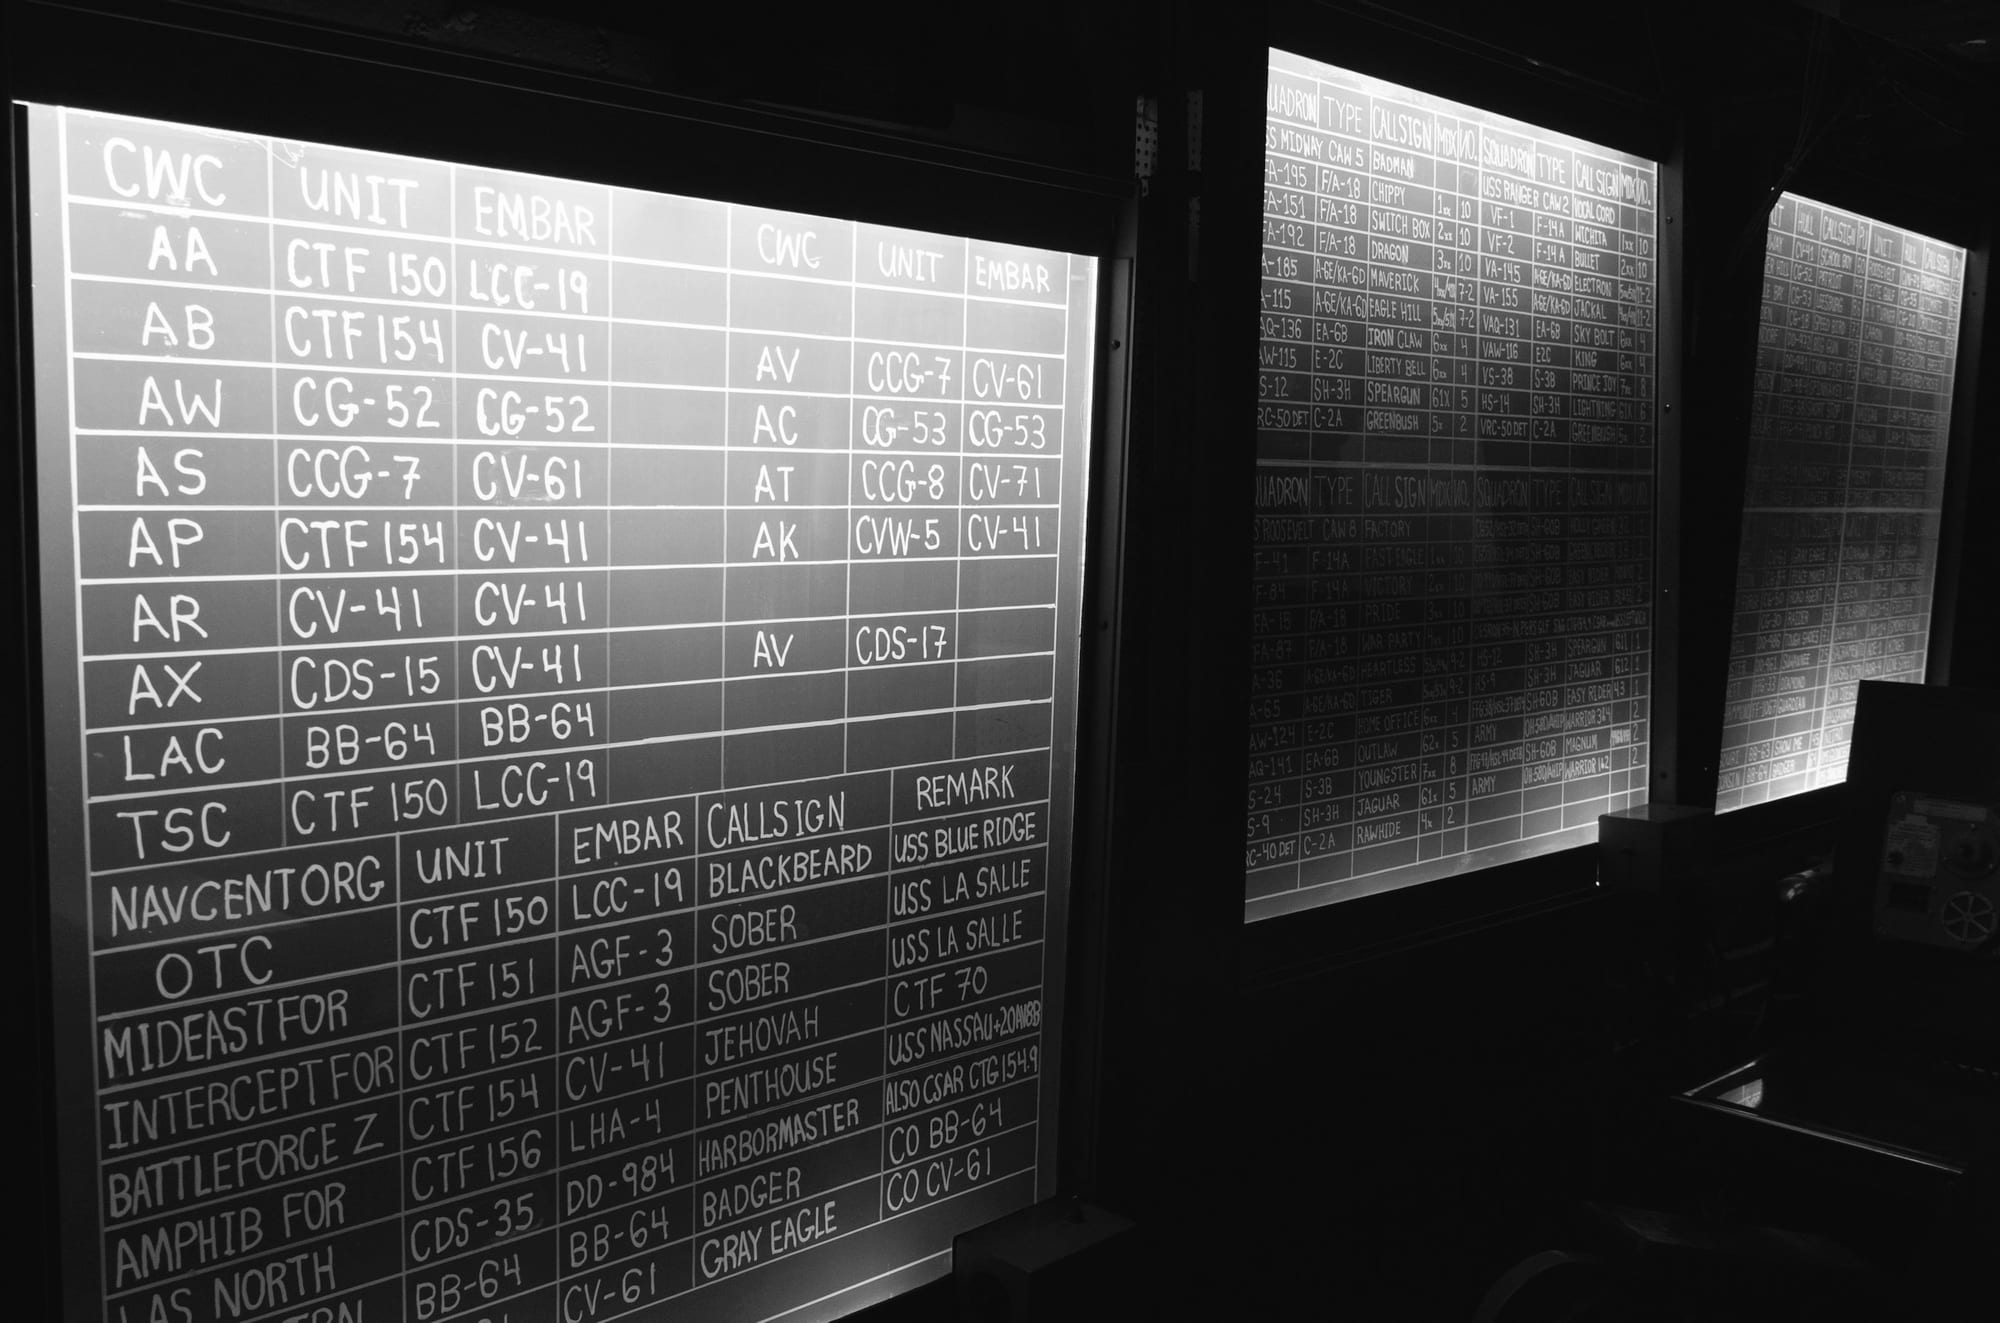
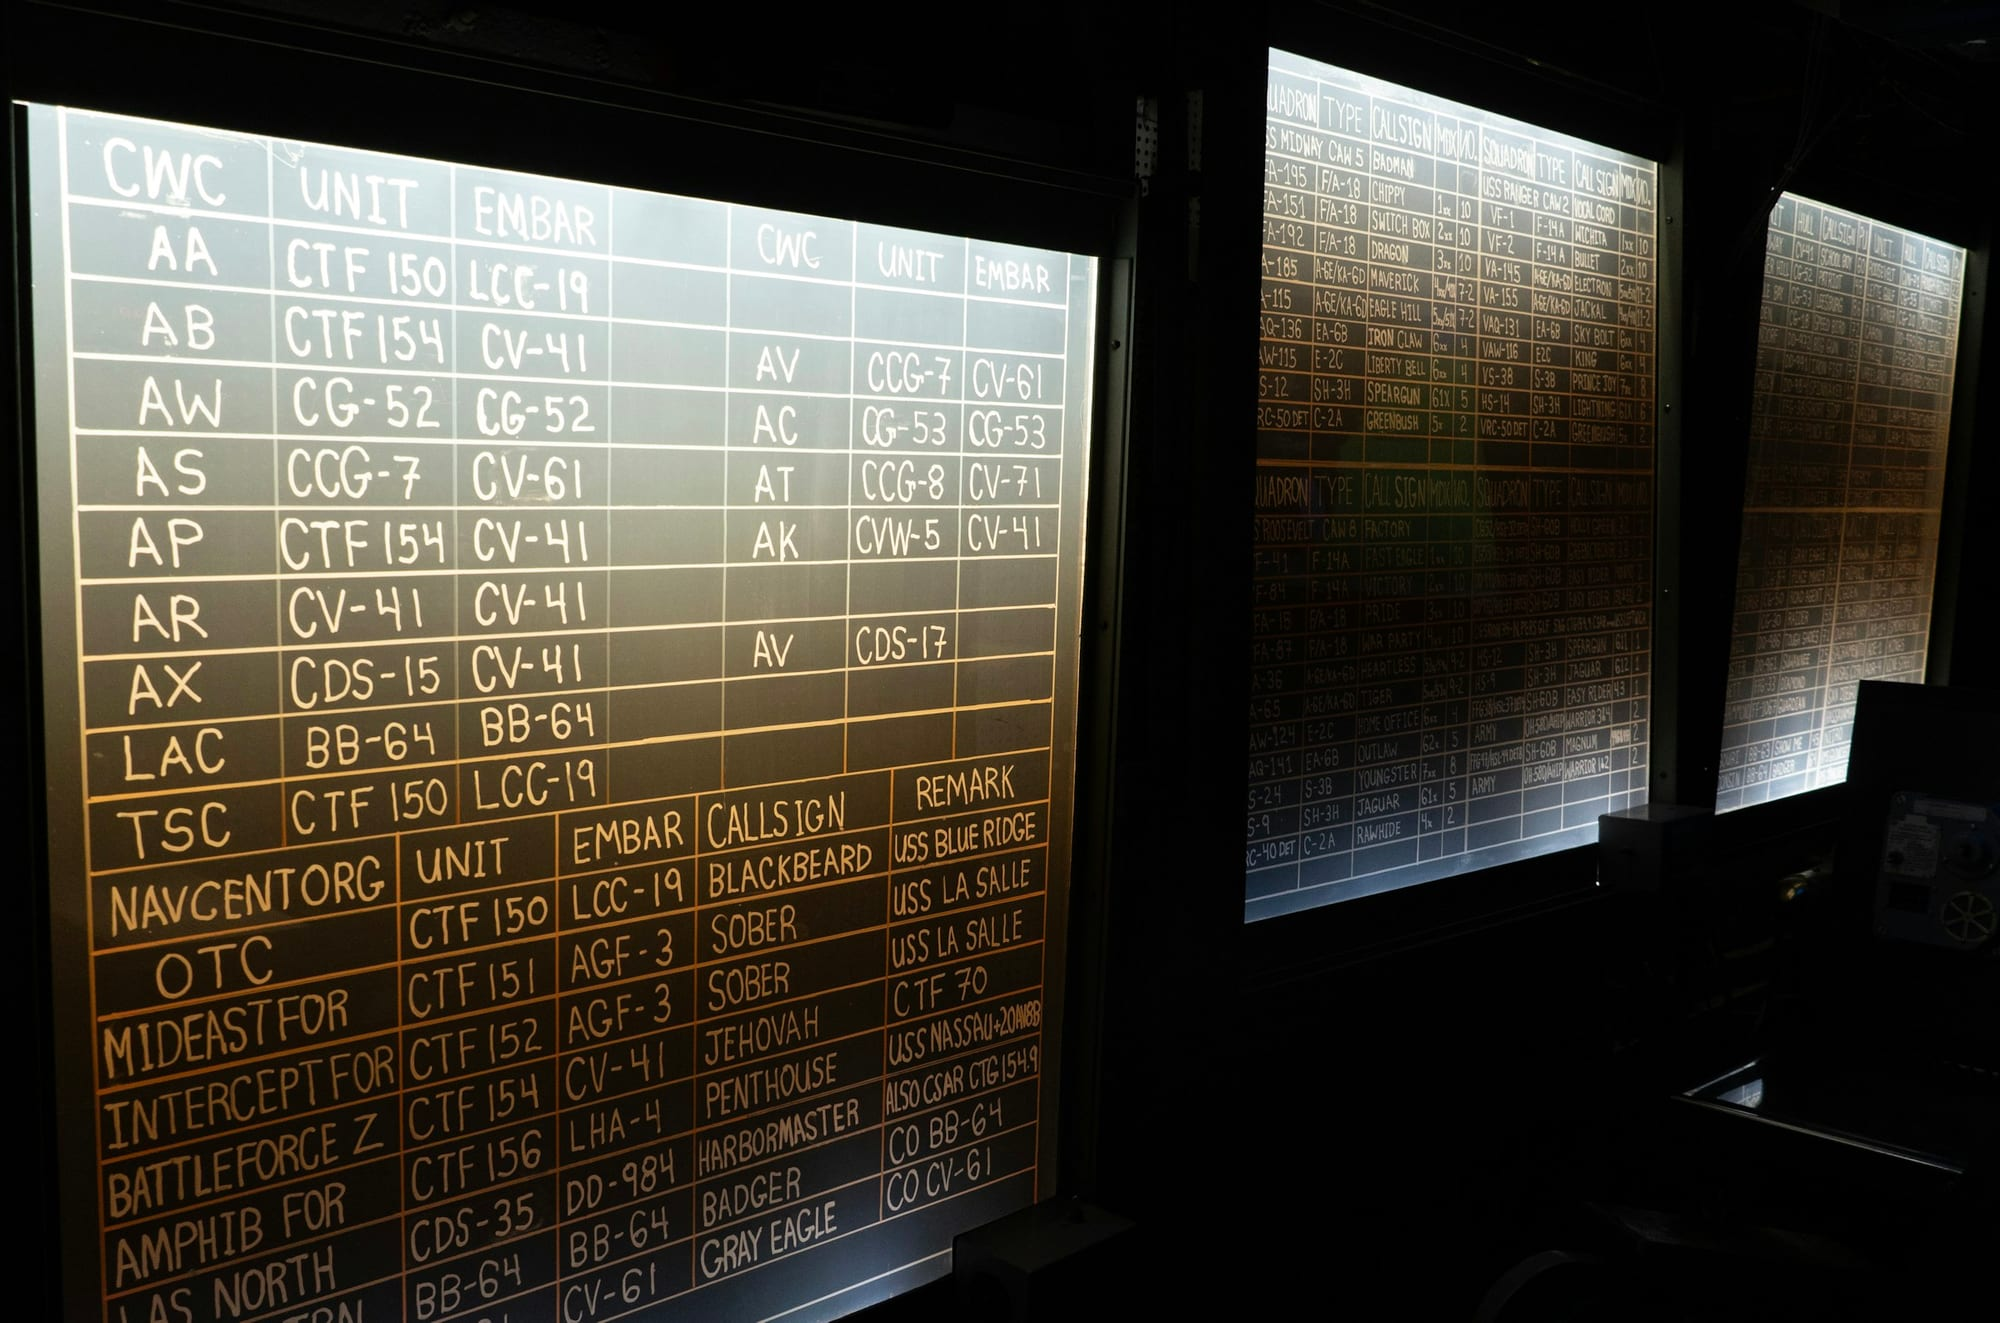
Photographs run in full colour
Approved deviation from the brand's greyscale image rule (plan §3.4),
recorded there so it is not reverted as a mistake. The rest of §3.4
still holds: the ratios, no rounded corners, no shadows, and no CSS
filters — the files are simply the photographs as shot.

Every file in src/assets/images/ is regenerated from its original,
including the About portrait.

diff --git a/src/lib/images.ts b/src/lib/images.ts
@@ -5,9 +5,9 @@ import type { Localized } from '../i18n/localized';
 /**
  * The photographs used across the site (plan §3.4).
  *
- * The files in `src/assets/images/` are already greyscale and carry the brand's treatment
- * (contrast 0.92, brightness 1.04); nothing is filtered in CSS. Astro crops each one to the
- * ratio the slot asks for and emits the responsive sizes.
+ * The files in `src/assets/images/` are full colour and untreated, which is a deliberate
+ * departure from the brand's greyscale rule (plan §3.4). Nothing is filtered in CSS either
+ * way. Astro crops each one to the ratio the slot asks for and emits the responsive sizes.
  *
  * Alt text lives here rather than beside the copy, so one image has one description in both
  * languages wherever it appears. Slots that still have no photograph keep the striped

diff --git a/MINIMALIST-WEBSITE-PLAN.md b/MINIMALIST-WEBSITE-PLAN.md
@@ -153,10 +153,11 @@ Copy exact values from the extracted design file if they differ from this table.
 
 - **Device:** hairline grid with one cell filled ink.
 - **Icons:** 24px box, 1.5px stroke, square caps, no rounding except true circles. Inline SVG using `currentColor`.
-- **Photography:** greyscale only, flat light, crops 4:5 / 3:2 / 1:1, no rounded corners, no shadows. Apply treatment to the image files (contrast 0.92, brightness 1.04), not via CSS filters.
+- **Photography:** ~~greyscale only~~ full colour (approved deviation, see below), flat light, crops 4:5 / 3:2 / 1:1, no rounded corners, no shadows. Any treatment goes into the image files, not via CSS filters.
 - **Type on image:** darken the image to 42% brightness; paper-coloured type at full opacity; no scrims or gradients; minimum 4.5:1 contrast.
 - **Until real photos exist,** use the striped placeholder with its caption (e.g. `product shot / core banking console`), exactly as in the design.
-- **The photographs in place** (services, the six steps, the insight cover) are free-licence stock, greyscaled and treated in the files and kept in `src/assets/images/`; `src/lib/images.ts` keys each one to its EN and HR alt text. `ImageFrame` takes that key and falls back to the placeholder without it, so the two are interchangeable per slot. The About portrait is Filip's own photograph, cropped to 4:5 and treated the same way. Still on placeholders: the Lift-Mučnjak screenshots, which have to be real.
+- **Approved deviation: photographs run in full colour, not greyscale.** Filip's call, 2026-09-22; the rest of §3.4 still holds (ratios, no rounded corners, no shadows, no CSS filters). Don't revert it.
+- **The photographs in place** (services, the six steps, the insight cover) are free-licence stock kept in `src/assets/images/`; `src/lib/images.ts` keys each one to its EN and HR alt text. `ImageFrame` takes that key and falls back to the placeholder without it, so the two are interchangeable per slot. The About portrait is Filip's own photograph, cropped to 4:5. Still on placeholders: the Lift-Mučnjak screenshots, which have to be real.
 
 ### 3.5 Motion
 
